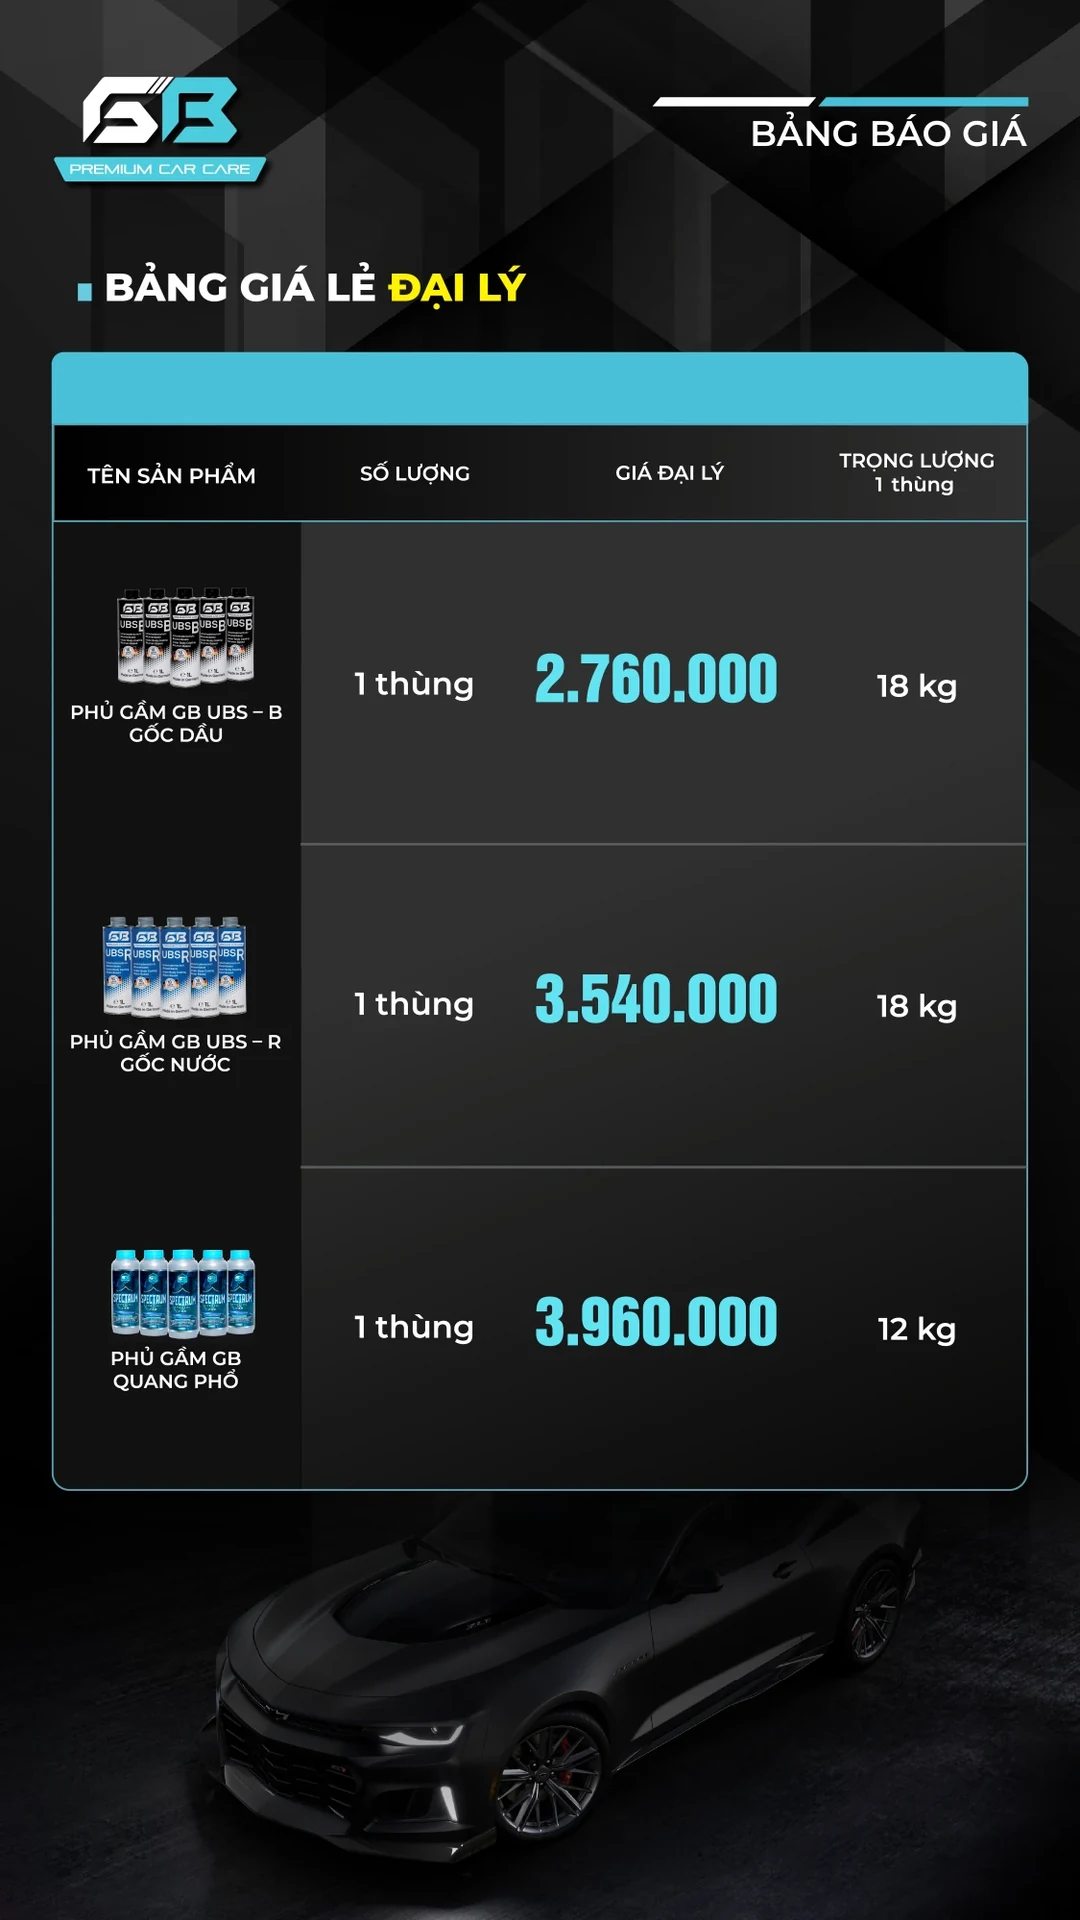
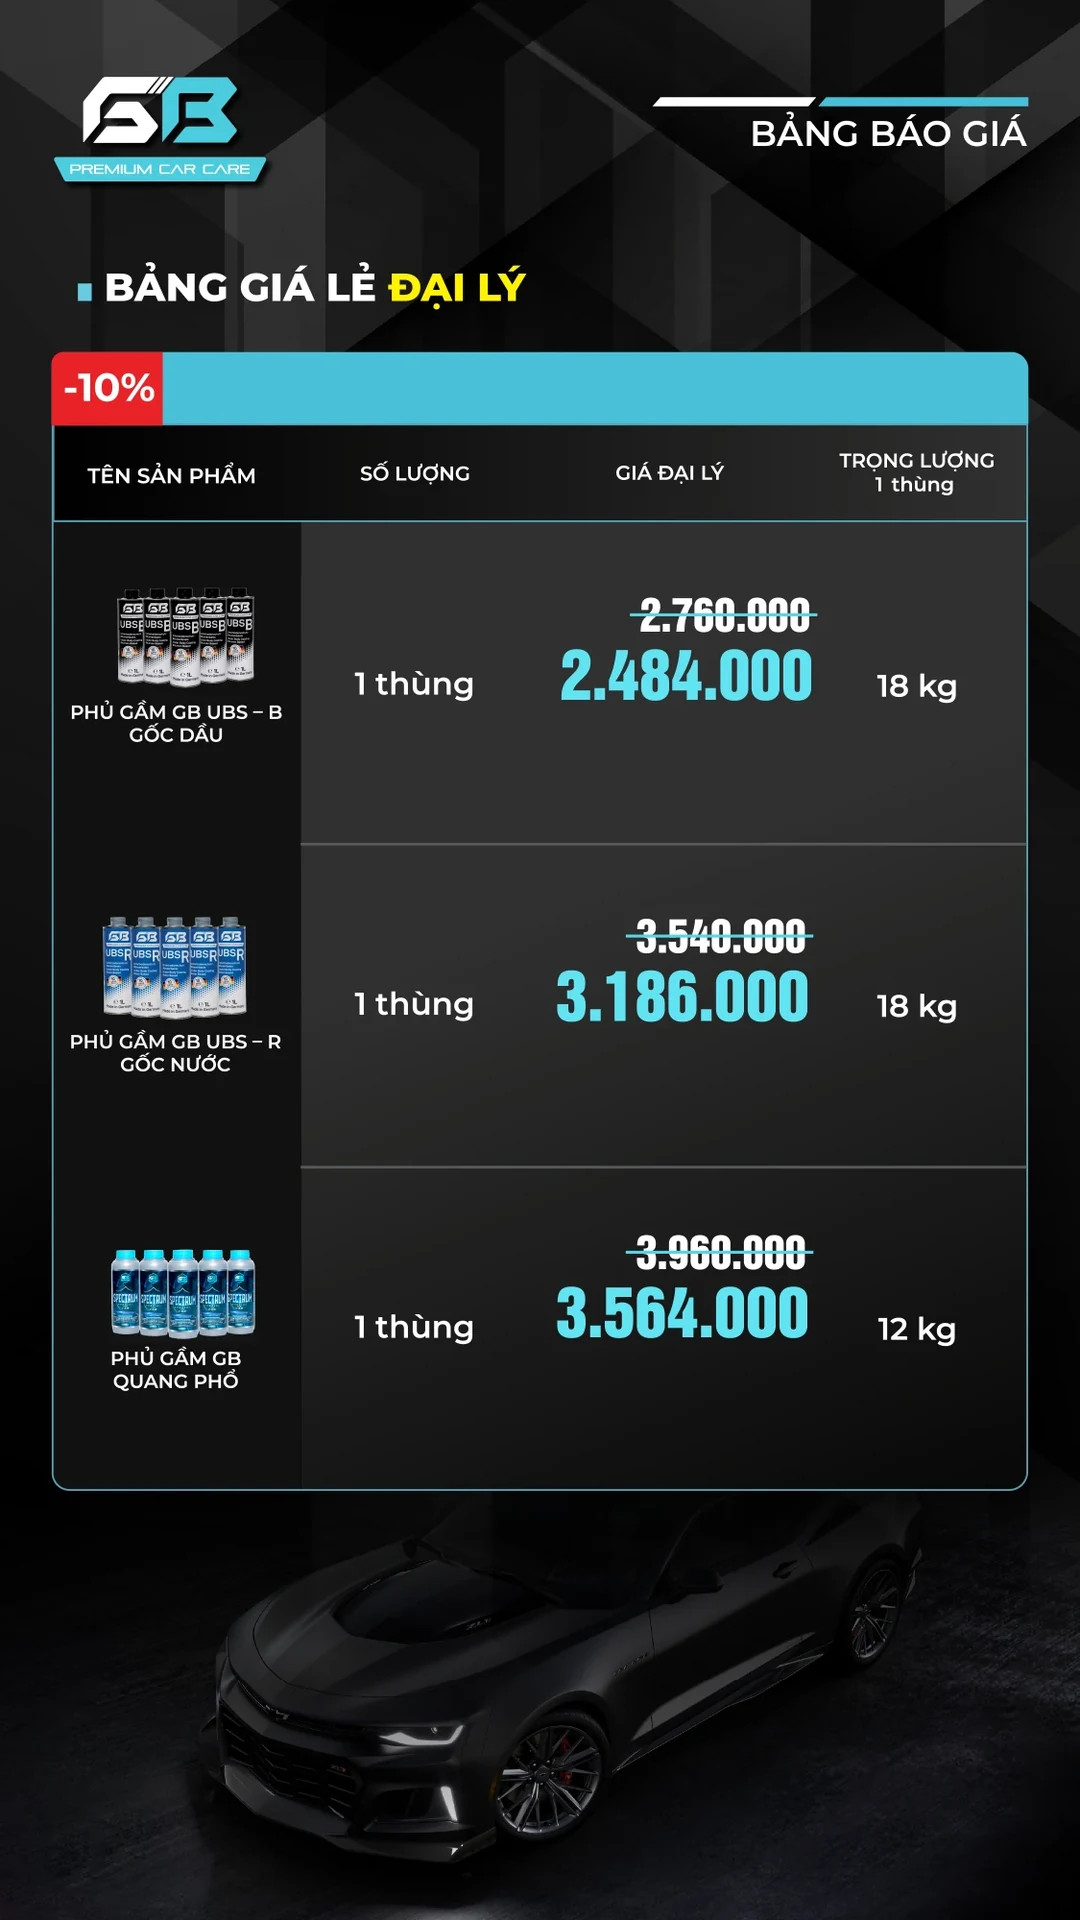
Price posters updated: dealer package UBS R unit price fixed, retail lists now show 10% off

diff --git a/phu-gam.html b/phu-gam.html
@@ -130,9 +130,9 @@
 
       <section class="page" id="dai-ly" data-stop="Chính sách đại lý" aria-label="Chính sách đại lý phủ gầm GB: đơn hàng gói đại lý và bảng giá lẻ theo chai, theo thùng">
         <div class="poster-grid">
-          <img class="poster" loading="lazy" decoding="async" src="assets/phu-gam/info/poster-dai-ly-gia.webp?v=6" width="1080" height="1920" alt="Chính sách đại lý phủ gầm, danh mục sản phẩm. GB UBS B gốc dầu: đơn giá 230.000 giảm 10% còn 207.000, giá thùng 2.760.000 còn 2.484.000, combo 8 thùng 22.080.000. GB UBS R gốc nước: 295.500 còn 265.950, thùng 3.540.000 còn 3.186.000, combo 28.320.000. GB Quang Phổ: 330.000 còn 297.000, thùng 3.960.000 còn 3.564.000, combo 31.680.000. Tổng đơn 82.080.000, chiết khấu 8.208.000, thanh toán 73.872.000. Giá chưa gồm thuế GTGT và phí vận chuyển; gói hỗ trợ áp dụng cho đơn hàng đầu tiên; thanh toán tiền mặt hoặc chuyển khoản trước khi giao hàng.">
-          <img class="poster" loading="lazy" decoding="async" src="assets/phu-gam/info/poster-dai-ly-gia-le-chai.webp?v=4" width="1080" height="1920" alt="Bảng giá lẻ đại lý theo chai (12 chai một thùng). Phủ gầm GB UBS B gốc dầu: 230.000 một chai, thùng nặng 18 kg. Phủ gầm GB UBS R gốc nước: 295.000 một chai, thùng 18 kg. Phủ gầm GB Quang Phổ: 330.000 một chai, thùng 12 kg.">
-          <img class="poster" loading="lazy" decoding="async" src="assets/phu-gam/info/poster-dai-ly-gia-le-thung.webp?v=4" width="1080" height="1920" alt="Bảng giá lẻ đại lý theo thùng. Phủ gầm GB UBS B gốc dầu: 2.760.000 một thùng, 18 kg. Phủ gầm GB UBS R gốc nước: 3.540.000 một thùng, 18 kg. Phủ gầm GB Quang Phổ: 3.960.000 một thùng, 12 kg.">
+          <img class="poster" loading="lazy" decoding="async" src="assets/phu-gam/info/poster-dai-ly-gia.webp?v=7" width="1080" height="1920" alt="Chính sách đại lý phủ gầm, danh mục sản phẩm. GB UBS B gốc dầu: đơn giá 230.000 giảm 10% còn 207.000, giá thùng 2.760.000 còn 2.484.000, combo 8 thùng 22.080.000. GB UBS R gốc nước: 295.000 còn 265.500, thùng 3.540.000 còn 3.186.000, combo 28.320.000. GB Quang Phổ: 330.000 còn 297.000, thùng 3.960.000 còn 3.564.000, combo 31.680.000. Tổng đơn 82.080.000, chiết khấu 8.208.000, thanh toán 73.872.000. Giá chưa gồm thuế GTGT và phí vận chuyển; gói hỗ trợ áp dụng cho đơn hàng đầu tiên; thanh toán tiền mặt hoặc chuyển khoản trước khi giao hàng.">
+          <img class="poster" loading="lazy" decoding="async" src="assets/phu-gam/info/poster-dai-ly-gia-le-chai.webp?v=5" width="1080" height="1920" alt="Bảng giá lẻ đại lý theo chai, giảm 10% (12 chai một thùng). Phủ gầm GB UBS B gốc dầu: 230.000 còn 207.000 một chai, thùng nặng 18 kg. Phủ gầm GB UBS R gốc nước: 295.000 còn 265.500 một chai, thùng 18 kg. Phủ gầm GB Quang Phổ: 330.000 còn 297.500 một chai, thùng 12 kg.">
+          <img class="poster" loading="lazy" decoding="async" src="assets/phu-gam/info/poster-dai-ly-gia-le-thung.webp?v=5" width="1080" height="1920" alt="Bảng giá lẻ đại lý theo thùng, giảm 10%. Phủ gầm GB UBS B gốc dầu: 2.760.000 còn 2.484.000 một thùng, 18 kg. Phủ gầm GB UBS R gốc nước: 3.540.000 còn 3.186.000 một thùng, 18 kg. Phủ gầm GB Quang Phổ: 3.960.000 còn 3.564.000 một thùng, 12 kg.">
         </div>
       </section>
 
